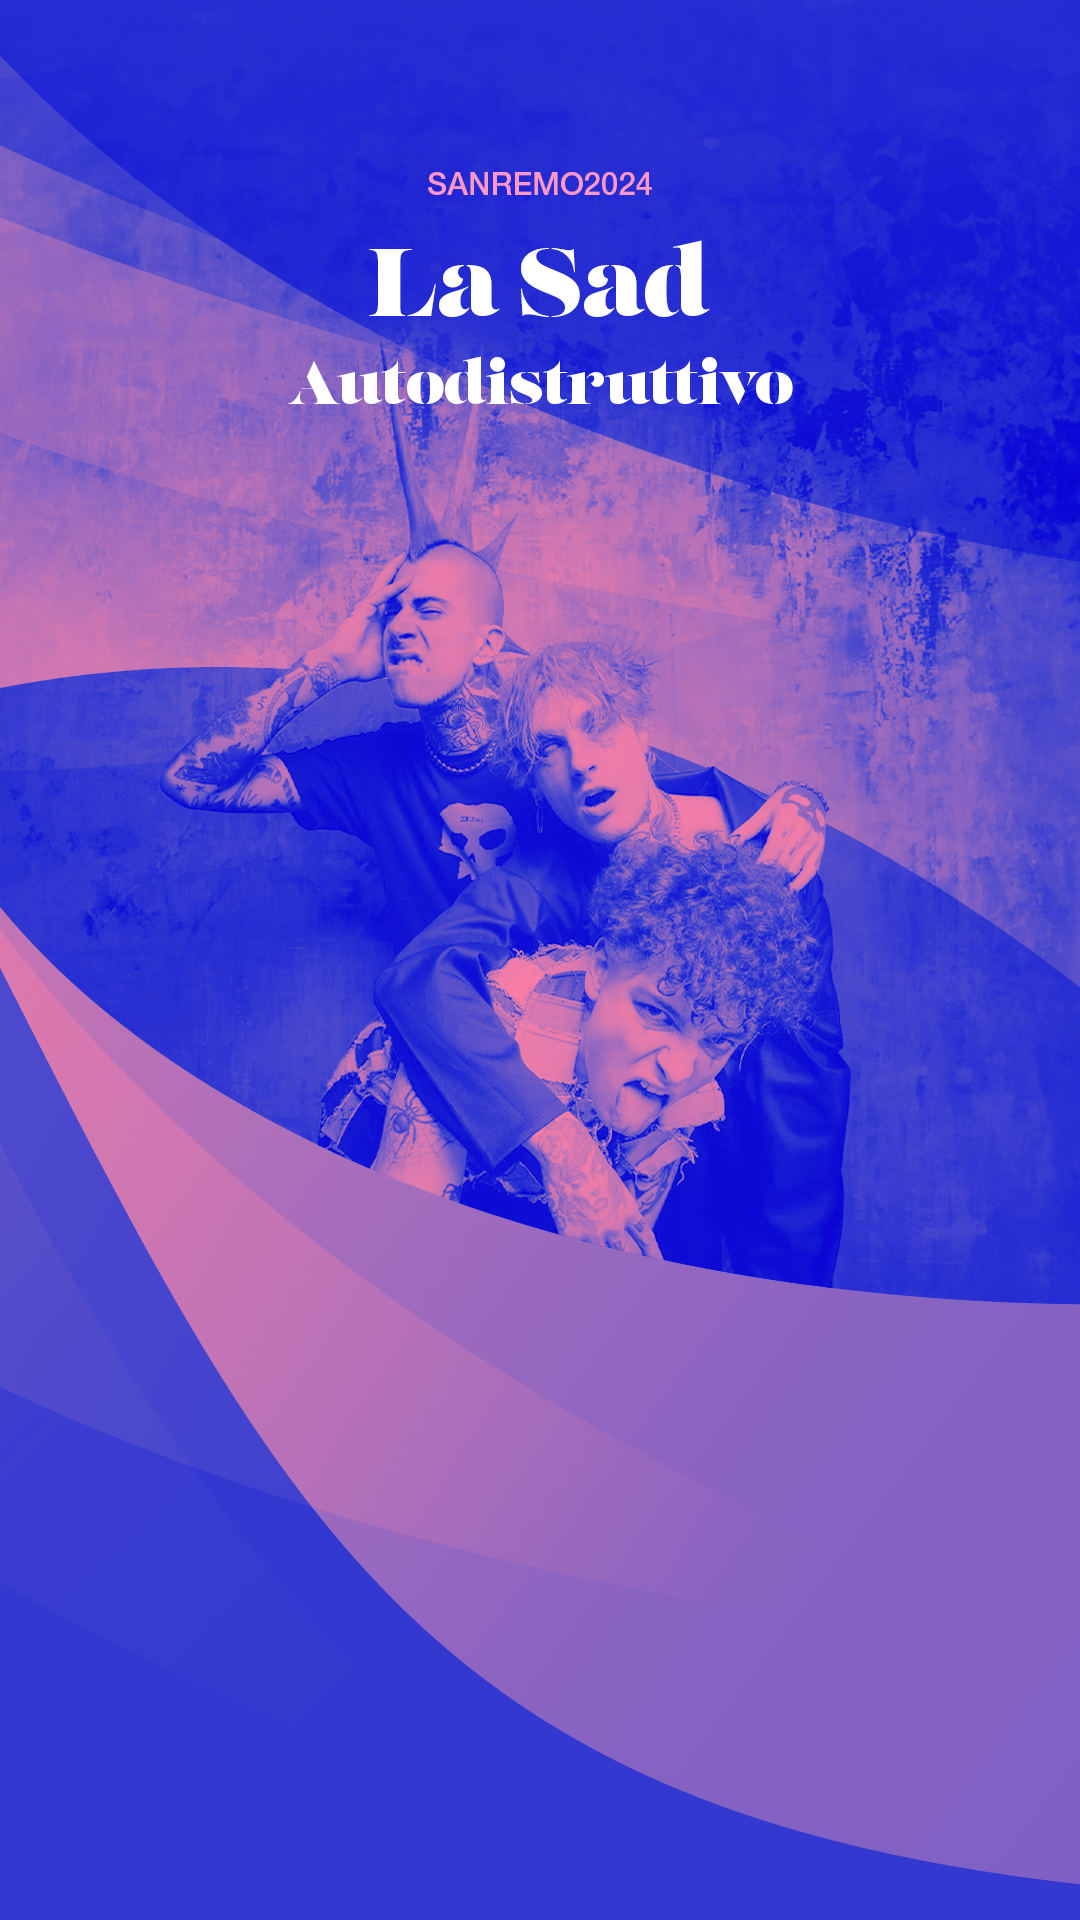
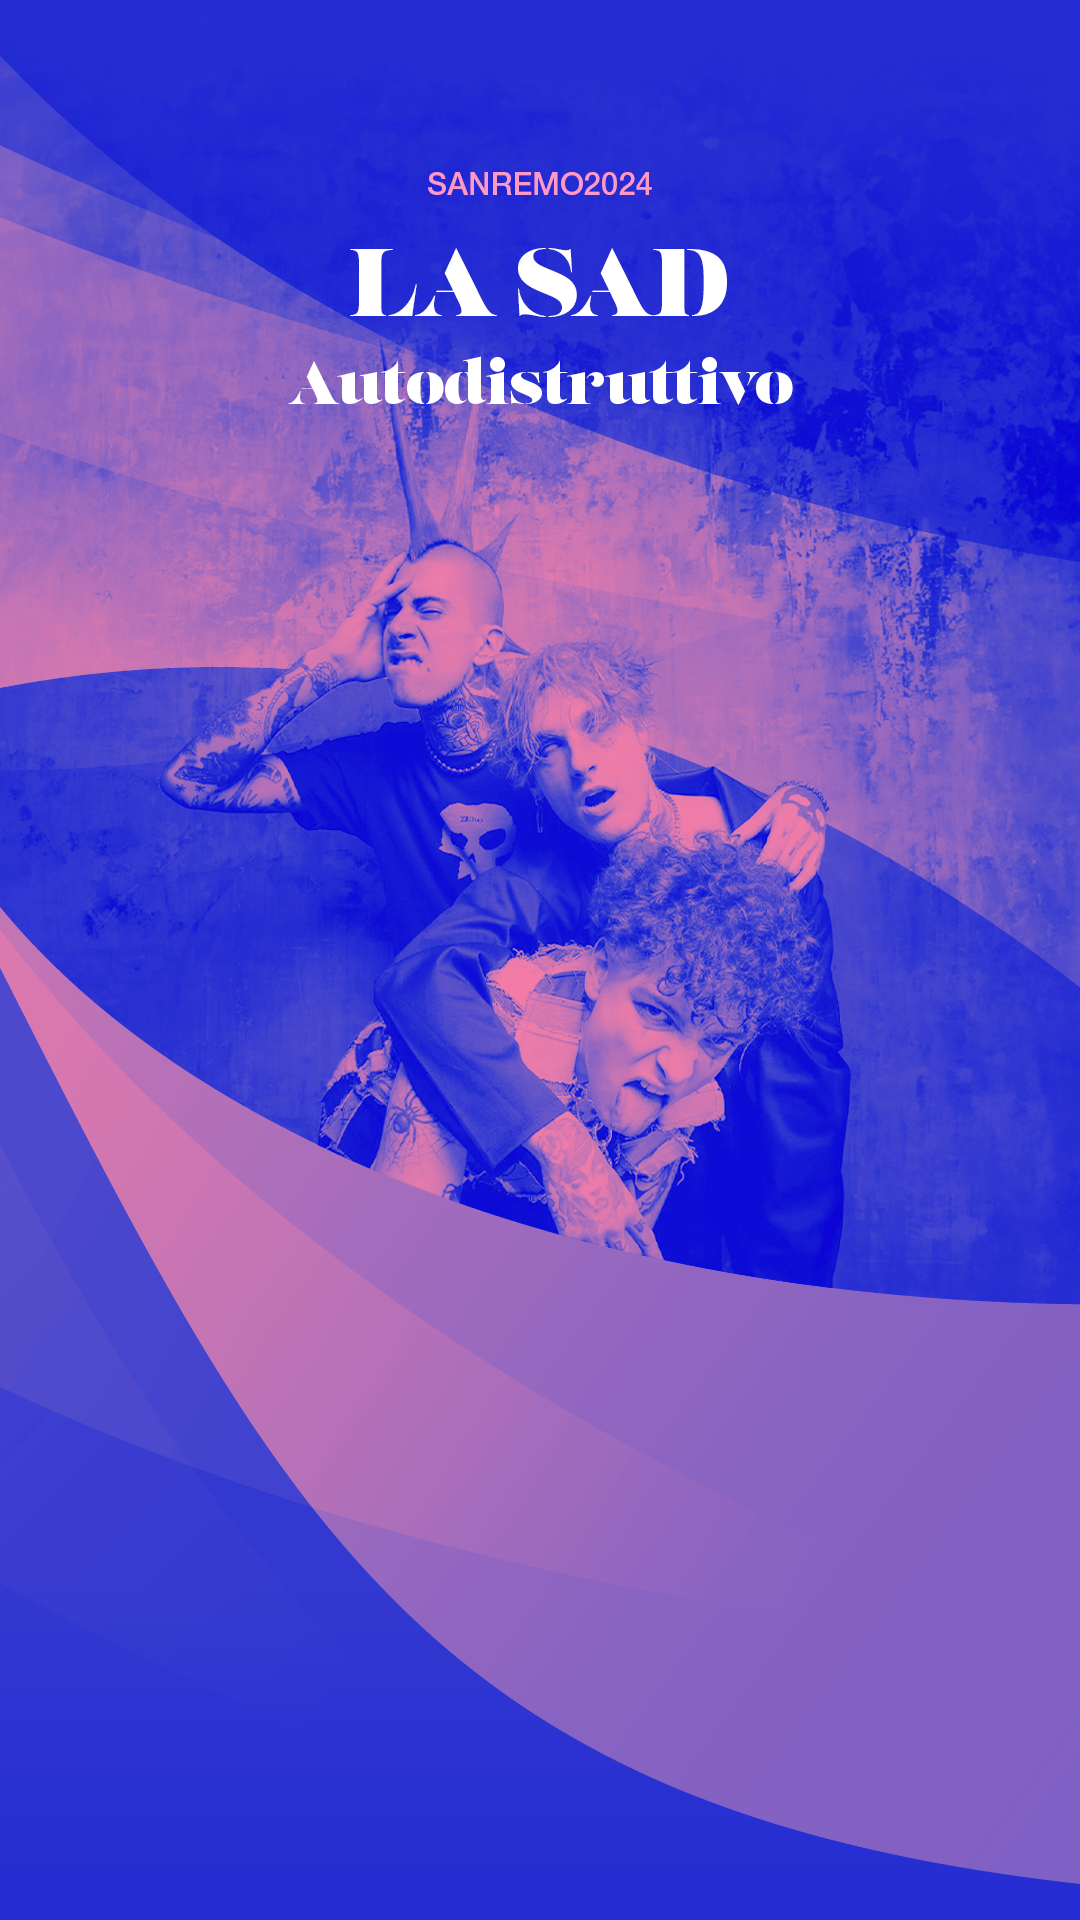
cia

Changed region(s): [[0.4889, 0.125, 0.6722, 0.1875], [0.3056, 0.125, 0.4583, 0.1875]]

diff --git a/lasad.html b/lasad.html
@@ -5,8 +5,6 @@
     <meta charset="UTF-8">
     <meta name="viewport" content="width=device-width, initial-scale=1.0">
     <title>Televota</title>
-    <meta name="theme-color" content="#242cd2"> 
-    <meta name="apple-mobile-web-app-status-bar-style" content="#242cd2"> 
 	    <meta property="og:title" content="Televota anche tu i LaSad!">
     <meta property="og:image" content="anteprima.png">
     <style>
@@ -14,7 +12,7 @@
             font-family: Arial, sans-serif;
             margin: 0;
             padding: 0;
-			 background-color: #3338d0;          
+			 background-color: #252dd2;          
         }
         .container {
 		position: relative;
